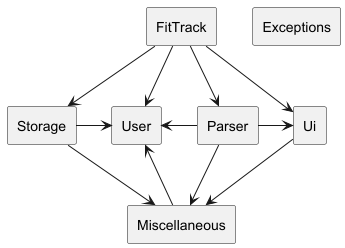
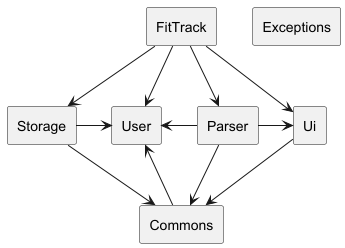
Docs: Update DG for High Level Functionalities

diff --git a/src/main/java/fittrack/parser/Parser.java b/src/main/java/fittrack/parser/Parser.java
@@ -10,6 +10,7 @@ import java.time.LocalDateTime;
 import java.time.format.DateTimeFormatter;
 import java.time.format.DateTimeParseException;
 import java.util.ArrayList;
+import java.util.Arrays;
 import java.util.Objects;
 
 import static fittrack.enums.Exercise.fromUserInput;
@@ -131,12 +132,10 @@ public class Parser {
             break;
         case EDIT_EXERCISE_COMMAND:
             try {
-                validEditDetails(description,sessionList.size());
-
-                String[] userinput = description.split(" ");
-                int sessionIndex = Integer.parseInt(userinput[1]);
-                String exerciseAcronym = userinput[2];
-                String exerciseData = userinput[3];
+                String[] userInput = validEditDetails(description,sessionList.size());
+                int sessionIndex = Integer.parseInt(userInput[0]) - 1;
+                String exerciseAcronym = userInput[1];
+                String exerciseData = userInput[2];
 
                 sessionList.get(sessionIndex).editExercise(fromUserInput(exerciseAcronym), exerciseData);
                 printSessionView(sessionList, sessionIndex);
@@ -160,8 +159,8 @@ public class Parser {
             try {
                 int indexToDelete = validSessionIndex(Integer.parseInt(description) - 1, sessionList.size());
                 TrainingSession sessionToDelete = sessionList.get(indexToDelete);
-                sessionList.remove(indexToDelete);
                 String sessionDescription = sessionList.get(indexToDelete).getSessionDescription();
+                sessionList.remove(indexToDelete);
                 printDeletedSession(sessionList, sessionToDelete, sessionDescription);
                 updateSaveFile(sessionList, goalList, reminderList);
             } catch (Exception e) {

diff --git a/docs/DeveloperGuide.md b/docs/DeveloperGuide.md
@@ -30,8 +30,8 @@ The Architecture Diagram shown above depicts the high-level design of the FitTra
 | Parser          | Handles parsing of user input, converting it into commands and actions                                       |
 | Ui              | Handles user interaction and CLI output, printing messages and data to the console                           |
 
-**Miscellaneous** and **Exceptions** represent a collection of lower level Classes and Exceptions used by the main classes above.
-**Miscellaneous** classes are as follows:
+**Commons** and **Exceptions** represent a collection of lower level Classes and Exceptions used by the main classes above.
+**Commons** classes are as follows:
 
 | Class           | Functionality                                                                                                |
 |-----------------|--------------------------------------------------------------------------------------------------------------|
@@ -268,11 +268,13 @@ exercise across multiple sessions. The core steps in the workflow are as follows
 ## Product scope
 ### Target user profile
 
-{Describe the target user profile}
+FitTrack is made for students who are training for NAPFA, who should not be distracted by a GUI interface.
 
 ### Value proposition
 
-{Describe the value proposition: what problem does it solve?}
+FitTrack provides a convenient way of recording and tracking their NAPFA performance. 
+It automatically computes their scores and awards, saving them time and hassle. 
+It is optimized to be simple, lightweight and minimalistic so that students do not have to exit their study environment.
 
 ## User Stories
 
@@ -296,12 +298,104 @@ Priorities: High (must have) - * * *, Medium (nice to have) - * *, Low (unlikely
 
 ## Non-Functional Requirements
 
-{Give non-functional requirements}
+Any mainstream OS with Java 17 installed
 
 ## Glossary
 
-* *glossary item* - Definition
+* NAPFA: National Physical Fitness Award
+* Mainstream OS: Windows, Linux, Unix, macOS
 
 ## Instructions for manual testing
 
-{Give instructions on how to do a manual product testing e.g., how to load sample data to be used for testing}
+**Help Function**
+1. Prerequisites: None. <br> <br>
+
+2. Test case 1: `help`<br>
+   Expected: The help message will be printed, guiding the user on valid commands. <br> <br>
+
+   Test case 2: `help blah`<br>
+   Expected: The help message will be printed, guiding the user on valid commands. <br>
+
+**Set User**
+1. Prerequisites: None. <br> <br>
+
+2. Test case 1: `set male 12`<br>
+   Expected: The user's gender and age will be set to `male` and `12`. <br> <br>
+
+   Test case 2: `set female 15`<br>
+   Expected: The user's gender and age will be set to `female` and `15`.
+
+**Add Training Session**
+1. Prerequisites: User's gender and age must be valid. <br> <br>
+
+2. Test case 1: `add session1`<br>
+   Expected: <br>
+   `Got it. I've added a new training session:` <br>
+   `1. session1`<br>
+   `There are 1 sessions in the list.`<br> <br>
+
+   Test case 2: `add session2 blah`<br>
+   Expected: <br>
+   `Got it. I've added a new training session:` <br>
+   `2. session2 blah`<br>
+   `There are 2 sessions in the list.`<br> <br>
+
+   Test case 3: `add 07/11/2024`<br>
+   Expected: <br>
+   `Got it. I've added a new training session:` <br>
+   `3. 07/11/2024`<br>
+   `There are 3 sessions in the list.`<br> <br>
+
+   Test case 4: `add `<br>
+   Expected: `Please provide a valid session name`.
+
+**List all Training Sessions**
+1. Prerequisites: None. <br> <br>
+
+2. Test case 1: `list` (sessionList is empty) <br>
+   Expected: `Your session list is currently empty.` <br> <br>
+   
+   Test case 2: `list` (sessionList has 2 TrainingSessions) <br>
+   Expected: <br>
+   `Here are your training sessions:` <br>
+   `session1 | 29/10/2024 12:40`<br>
+   `session2 | 29/10/2024 12:41`<br>
+   `There are 2 sessions in the list.`<br>
+
+**View a Training Session**
+1. Prerequisites: None. <br> <br>
+
+2. Test case 1: `view 1` (sessionList is empty) <br>
+   Expected: `Please provide a valid session index.` <br> <br>
+
+   Test case 2: `view 1` (sessionList contains at least 1 TrainingSession)<br>
+   Expected: <br>
+   `Training Session: session1`<br>
+   `Training Datetime: 07/11/2024 12:40`<br>
+   `Pull Up Station | Reps: 0 | 0 points`<br>
+   `Shuttle Run Station | Time: NA | 0 points`<br>
+   `Sit and Reach Station | Distance: 0cm | 0 points`<br>
+   `Sit Up Station | Reps: 0 | 0 points`<br>
+   `Standing Broad Jump Station | Distance: 0cm | 0 points`<br>
+   `Walk and Run Station | Time: NA | 0 points`<br>
+   `Total points: 0`<br>
+   `Overall Award: No Award`<br>
+
+**Edit a Training Session**
+1. Prerequisites: None. <br> <br>
+
+2. Test case 1: `edit 1 PU 30` (sessionList is Empty) <br>
+   Expected: `Please provide a valid session index, station and reps.` <br> <br>
+
+   Test case 2: `edit 1 PU 30` (sessionList contains at least 1 TrainingSession) <br>
+   Expected: 
+   `Training Session: session1` <br>
+   `Training Datetime: 07/11/2024 12:40` <br>
+   `Pull Up Station | Reps: 30 | 5 points` <br>
+   `Shuttle Run Station | Time: NA | 0 points` <br>
+   `Sit and Reach Station | Distance: 0cm | 0 points` <br>
+   `Sit Up Station | Reps: 30 | 0 points` <br>
+   `Standing Broad Jump Station | Distance: 0cm | 0 points` <br>
+   `Walk and Run Station | Time: NA | 0 points` <br>
+   `Total points: 5` <br>
+   `Overall Award: No Award` <br>
